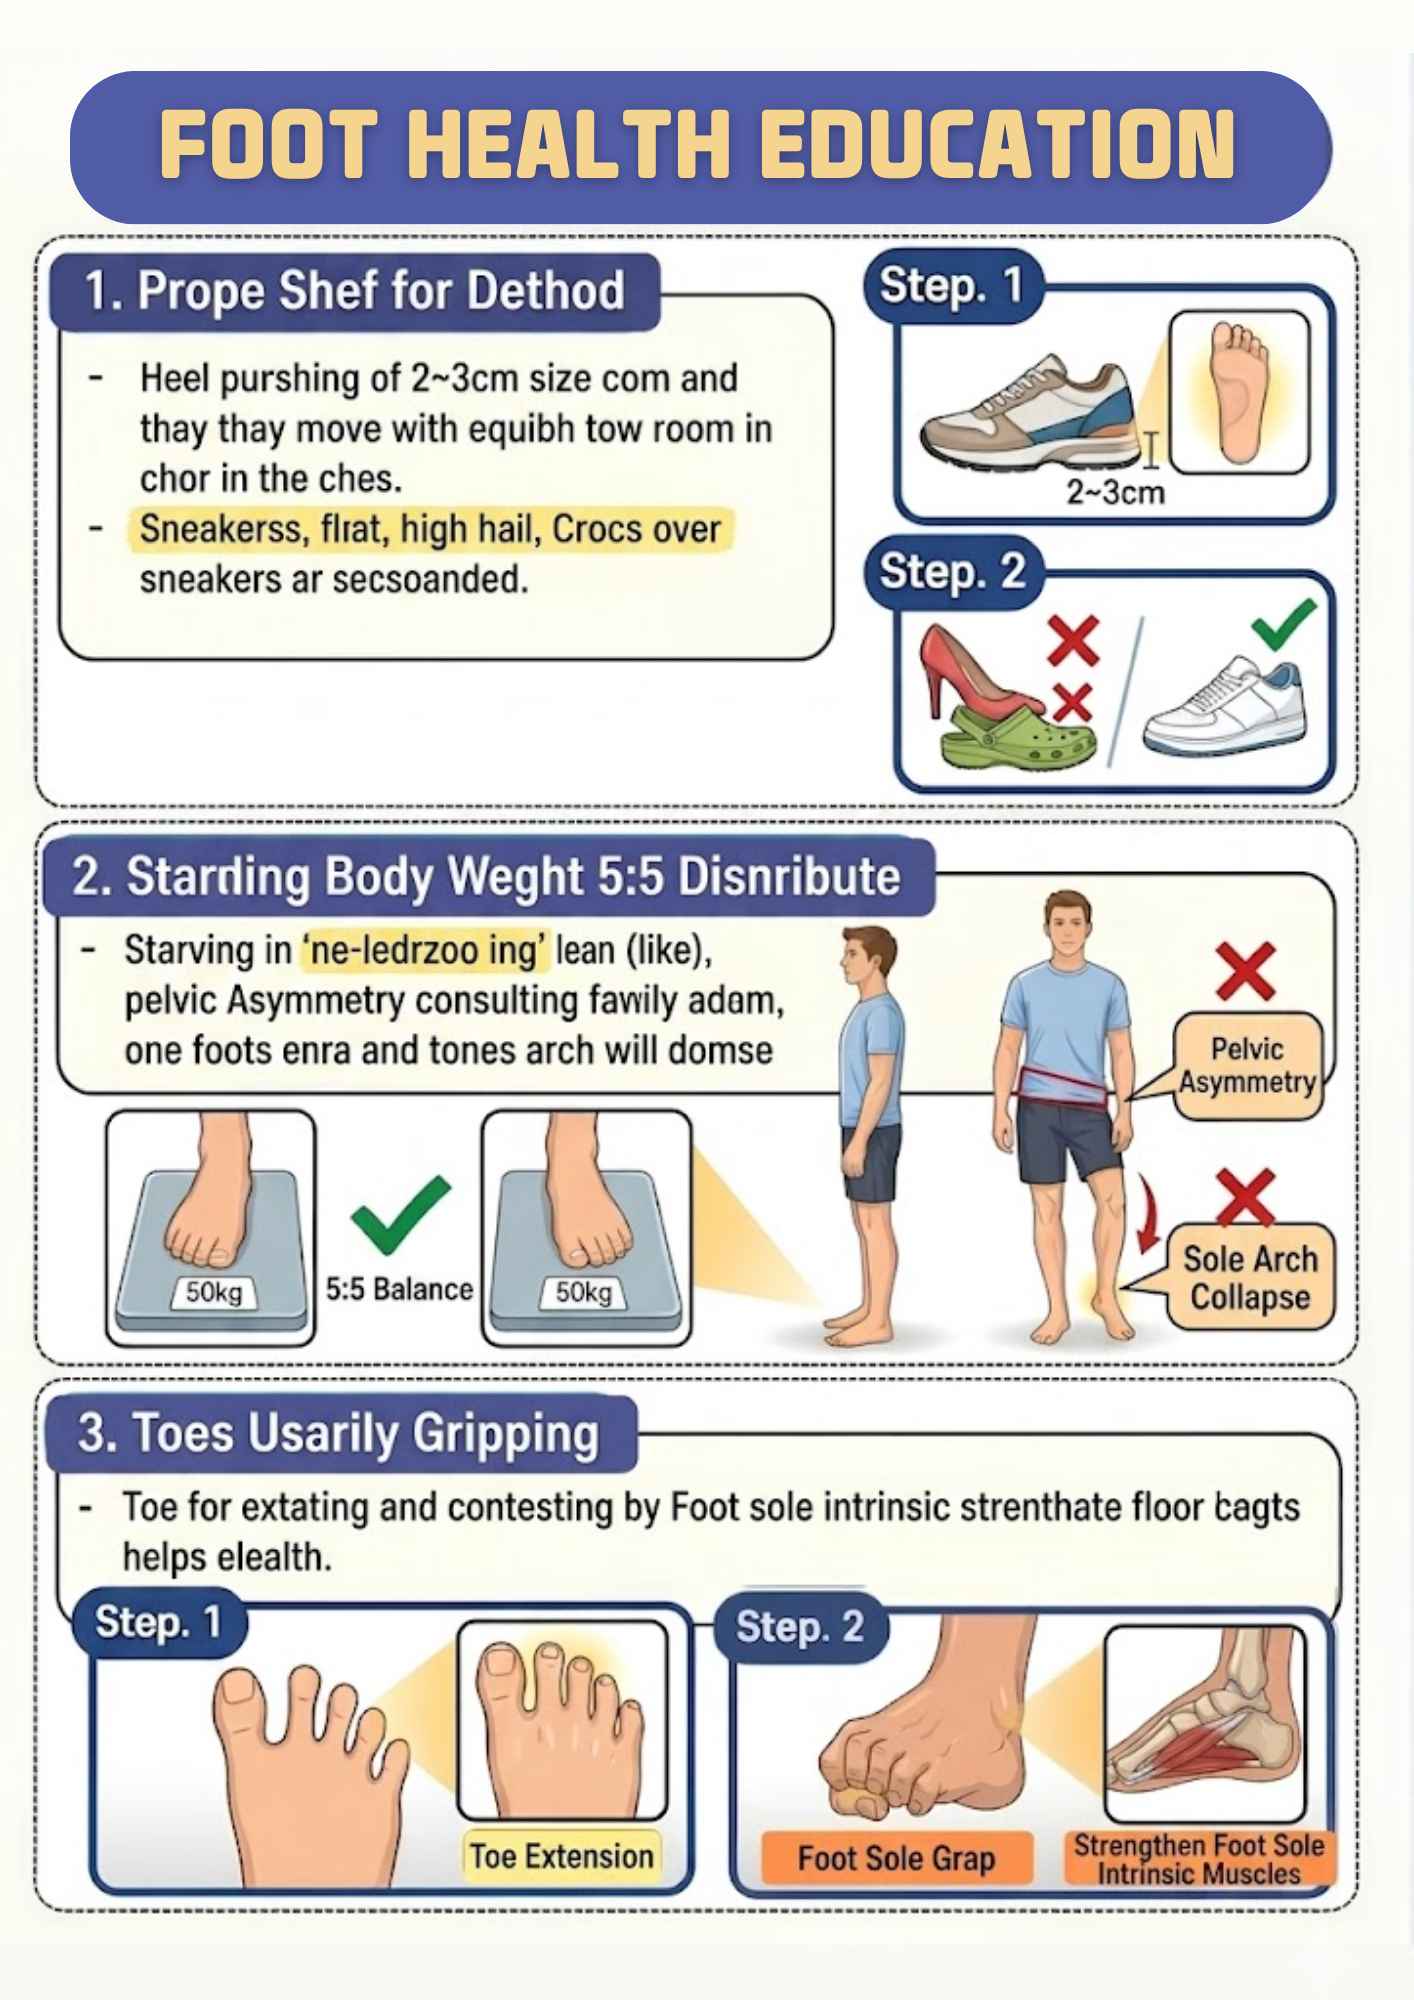
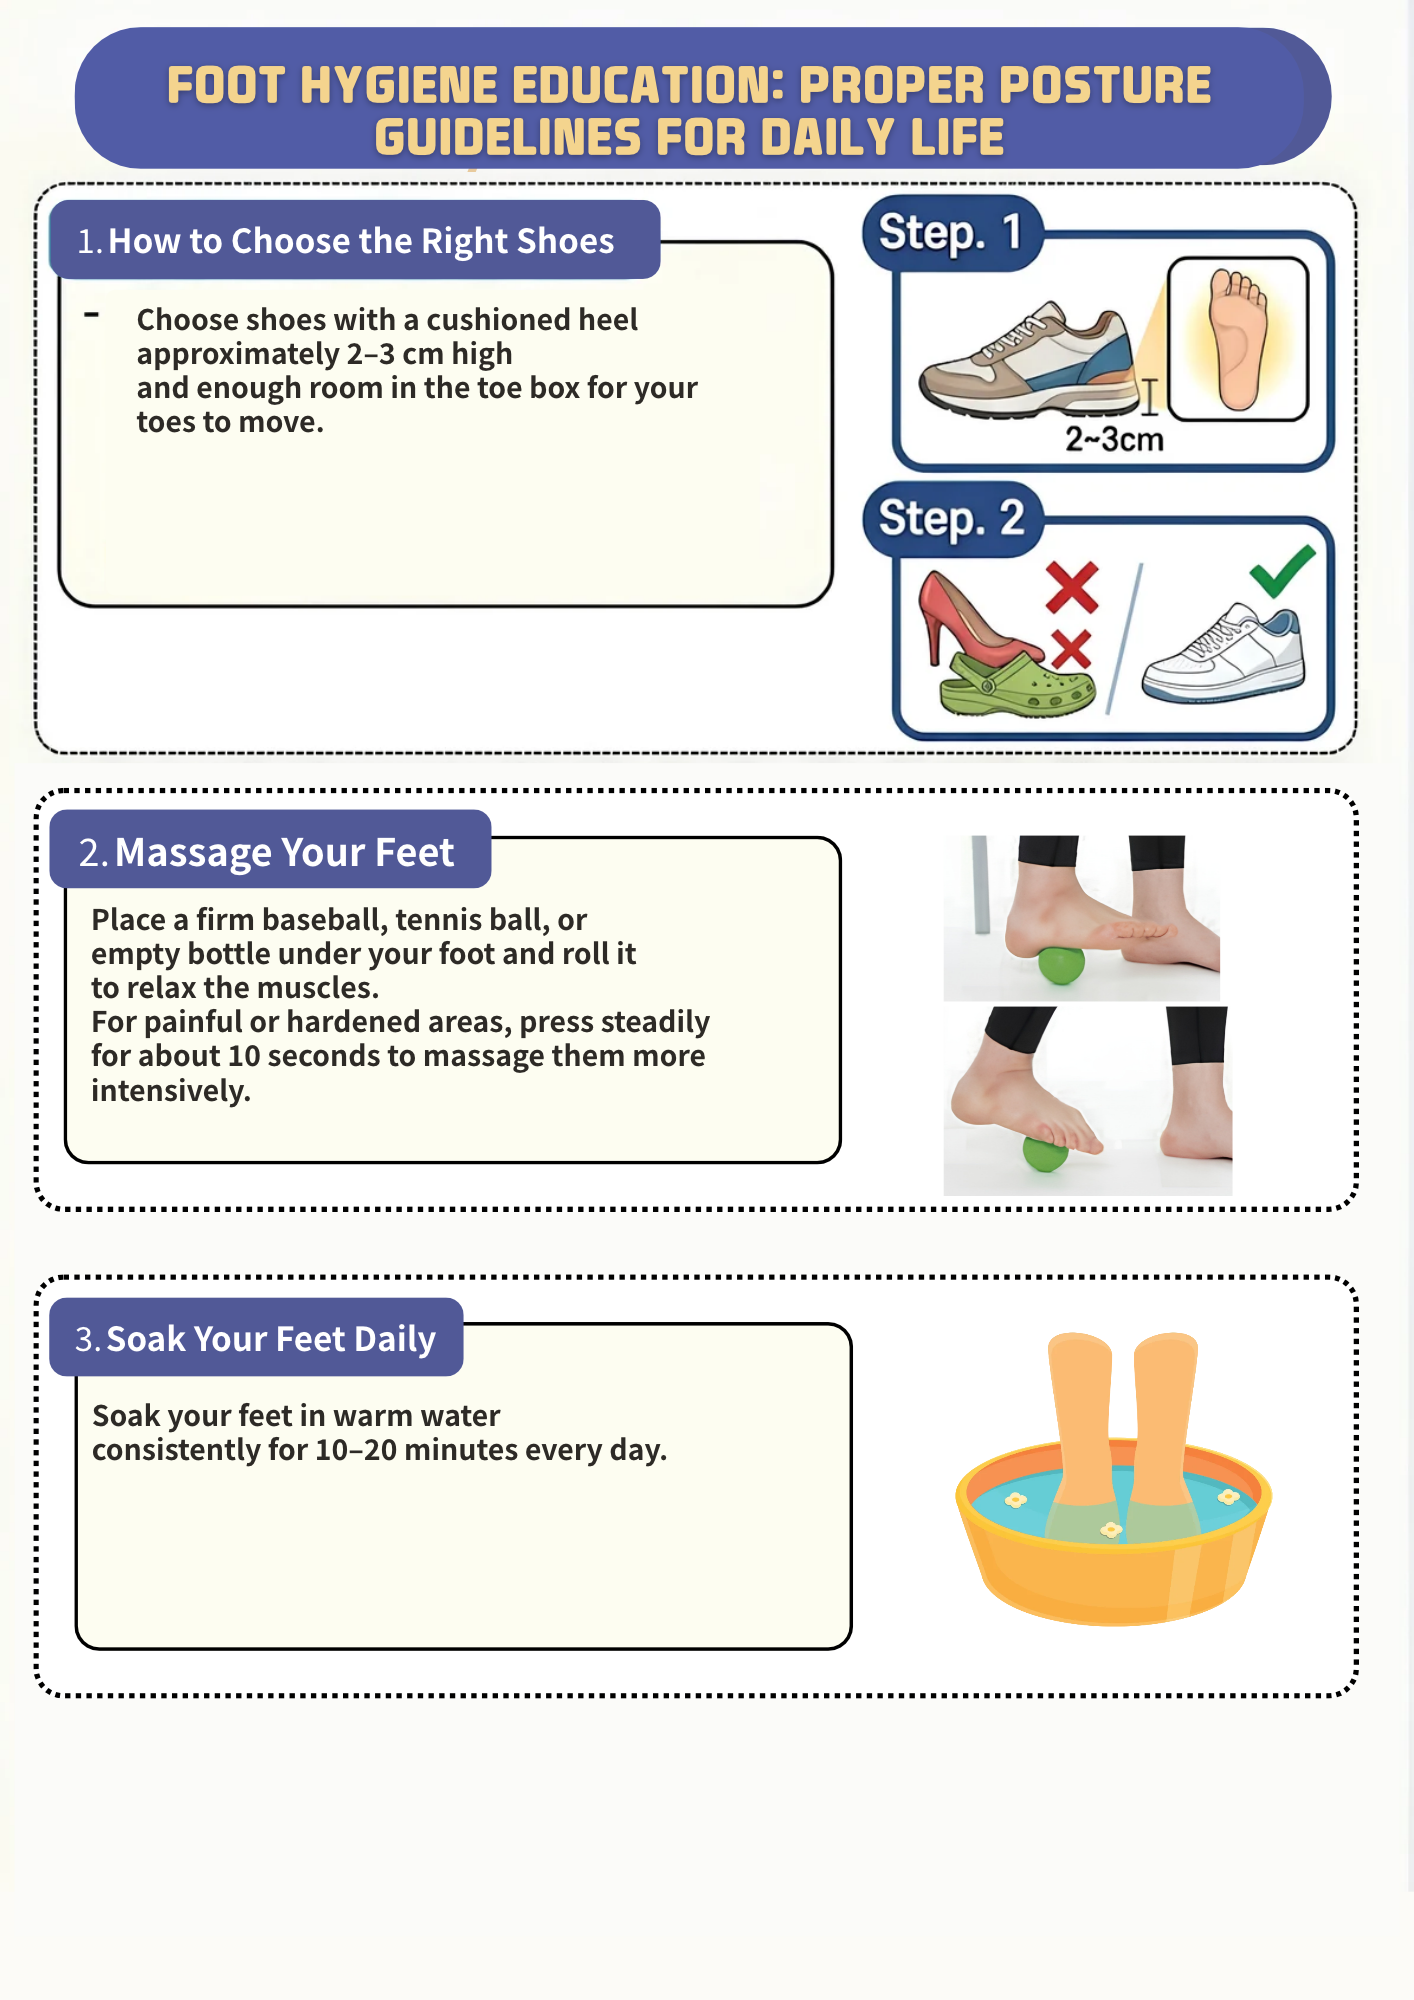
fix: 발 위생교육 1장 한/영 교체
일상생활 바른 자세 지침(신발 고르기 2~3cm 쿠션 / 발 마사지 10초 / 족욕 10~20분)
으로 갱신. 한글·영문 세 항목 모두 대조했고 수치 불일치는 없다.

영문에는 한글 1번 항목 끝의 "플랫슈즈·하이힐·크록스보다 운동화를 권장합니다"
문장이 빠져 있다. Step 2 삽화(힐·크록스 X / 운동화 O)가 같은 내용을 보여주므로
의미 전달은 되지만, 다시 뽑을 일이 있으면 넣는 편이 좋다.

파일명이 같아 슬라이더 구성(발 위생교육.png, 발 위생교육2.png)은 손대지 않았다.

BANNER_VER 20261017b -> 20261026.

diff --git a/js/i18n.js b/js/i18n.js
@@ -5,7 +5,7 @@
    ───────────────────────────────────────────── */
 
 /* 배너 캐시 버전: 배너 이미지를 같은 파일명으로 교체할 때마다 이 값을 올린다. */
-const BANNER_VER = '20261017b';
+const BANNER_VER = '20261026';
 
 const translationMap = {
   ko: {
